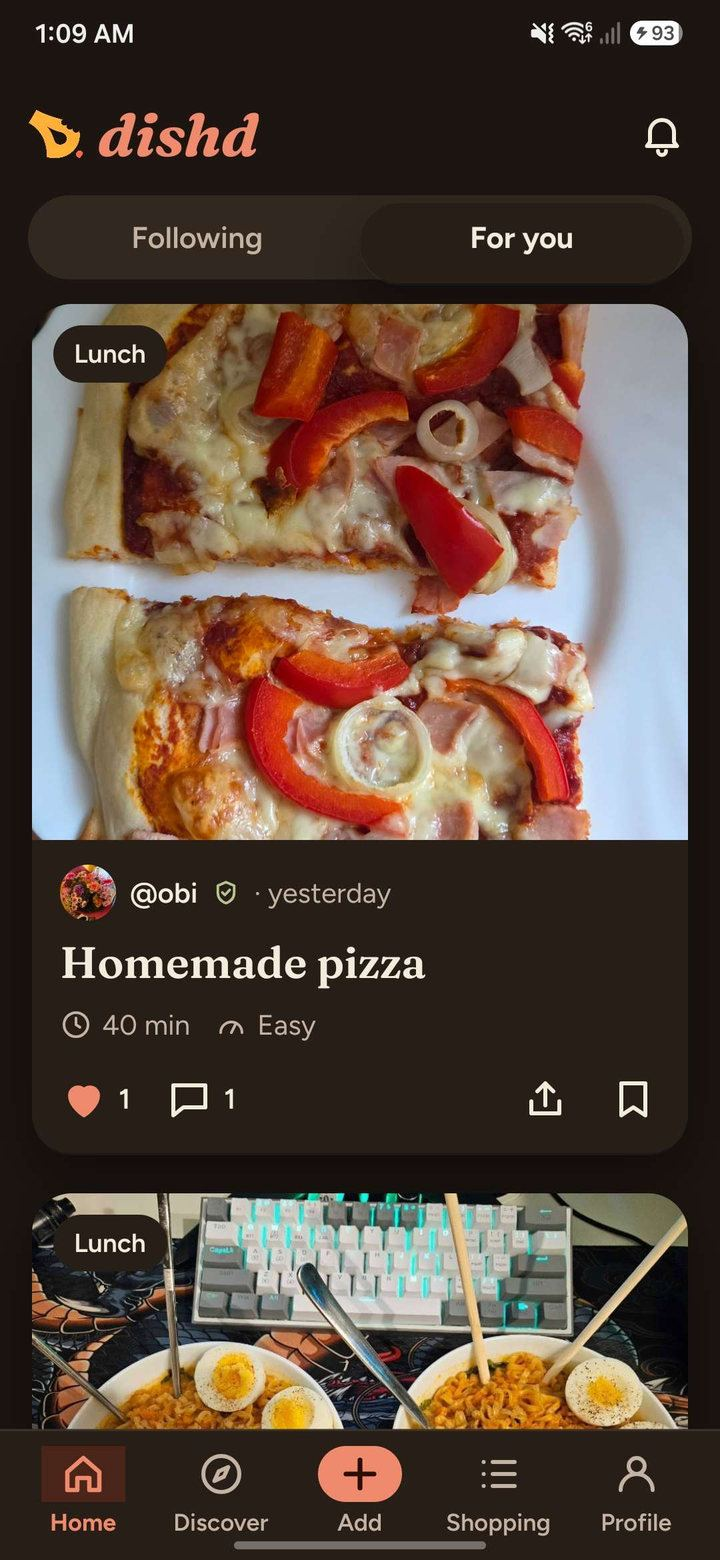
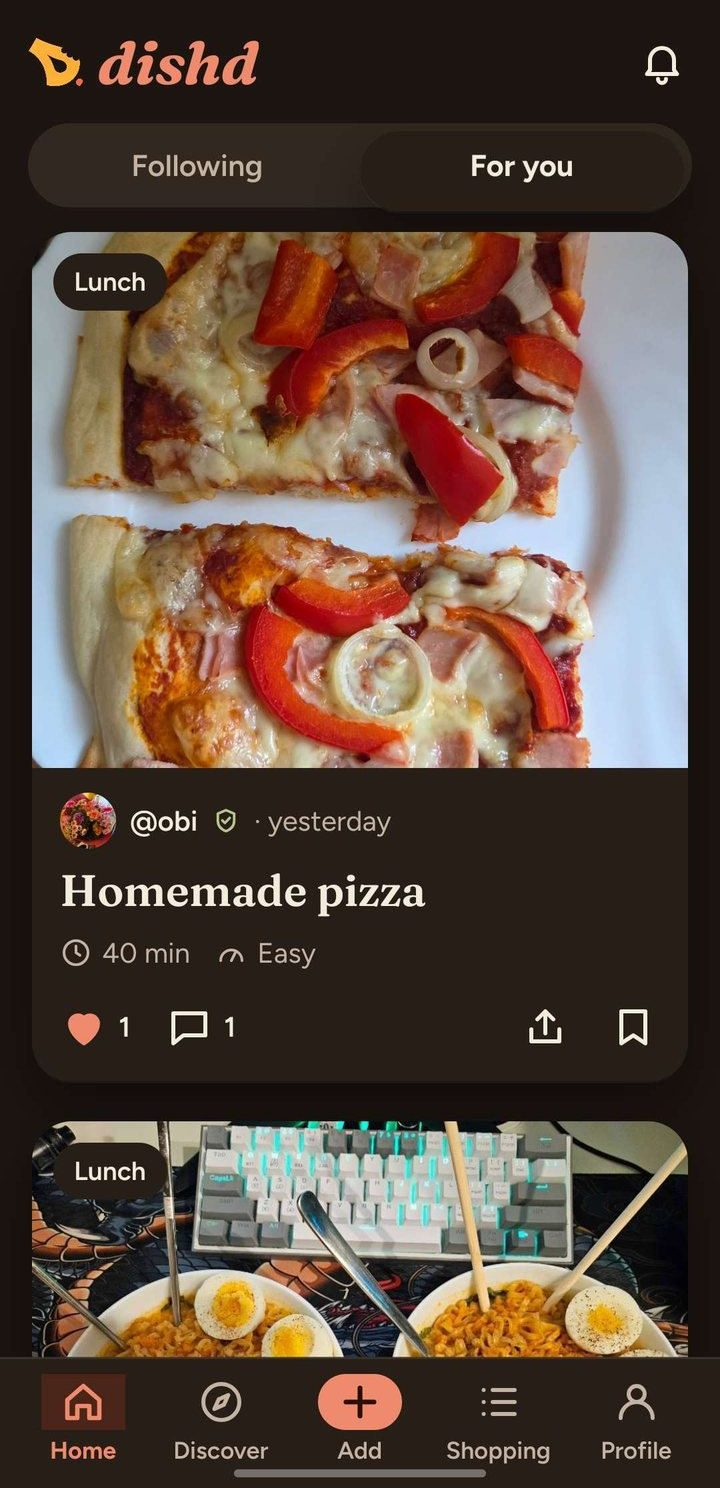
naprawa screena

diff --git a/index.html b/index.html
@@ -93,12 +93,9 @@
                aria-label="Screenshot of the dishd feed: a homemade pizza post by @obi, 40 min, easy, with the Home, Discover, Add, Shopping and Profile tabs below."
                data-aria-en="Screenshot of the dishd feed: a homemade pizza post by @obi, 40 min, easy, with the Home, Discover, Add, Shopping and Profile tabs below."
                data-aria-pl="Zrzut ekranu z aplikacji dishd: wpis @obi z domową pizzą, 40 min, łatwe, a na dole zakładki Home, Discover, Add, Shopping i Profile.">
-            <img class="shot__img" src="media/screenshot.jpg" alt="" width="720" height="1560"
+            <img class="shot__img" src="media/screenshot.jpg" alt="" width="720" height="1488"
                  fetchpriority="high" decoding="async" />
           </div>
-          <p class="showcase__note" data-en="Illustrative preview — sample content, not a real user." data-pl="Wersja poglądowa - przykładowy przepis i profil.">
-            Illustrative preview — sample content, not a real user.
-          </p>
         </div>
       </div>
     </section>

diff --git a/assets/styles.css b/assets/styles.css
@@ -468,18 +468,6 @@ ul, ol {
   isolation: isolate;
 }
 
-.showcase__note {
-  margin: 14px 0 0;
-  max-width: 36ch;
-  padding: 6px 14px;
-  border-radius: 999px;
-  background: rgba(250, 247, 242, 0.92);
-  font-size: 11.5px;
-  line-height: 1.5;
-  color: #5C5449;
-  text-align: center;
-}
-
 .showcase::before {
   content: "";
   position: absolute;
